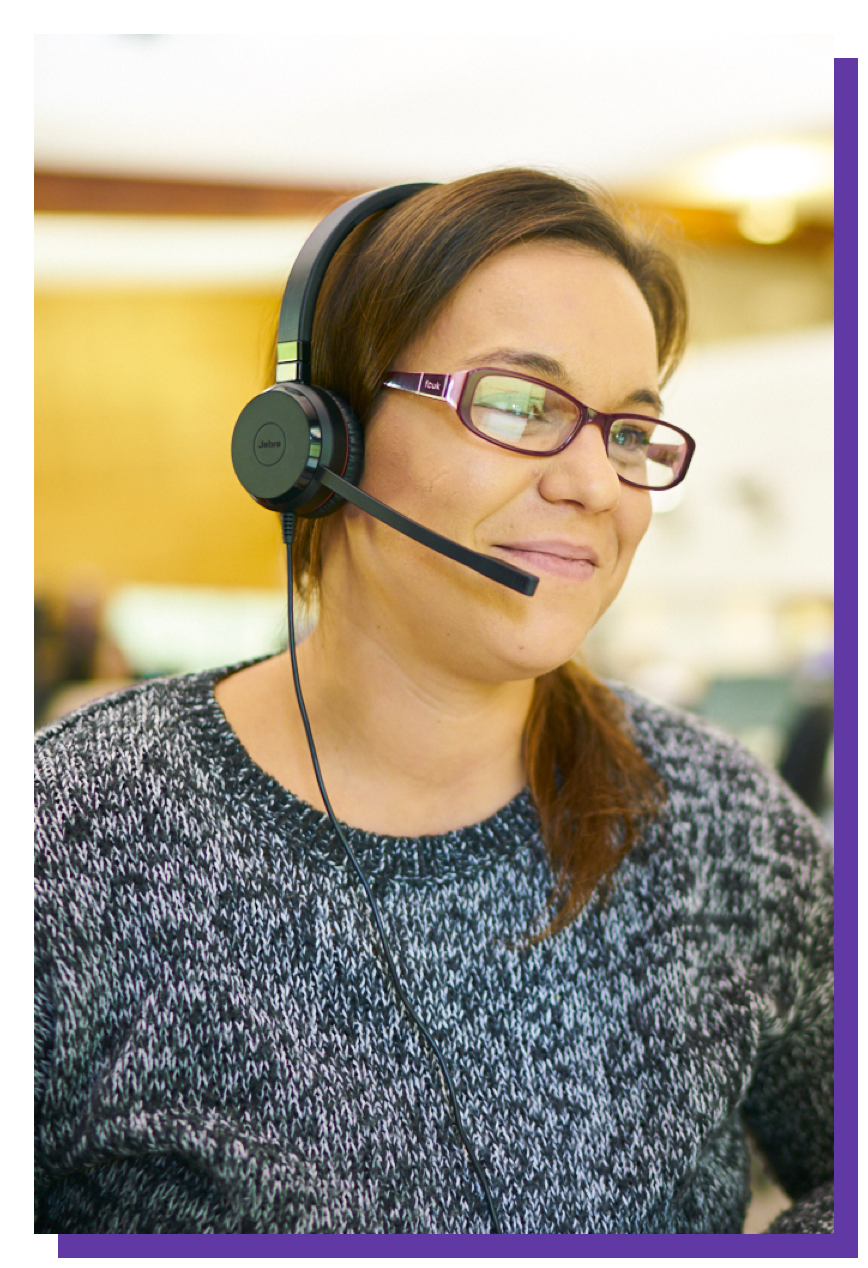
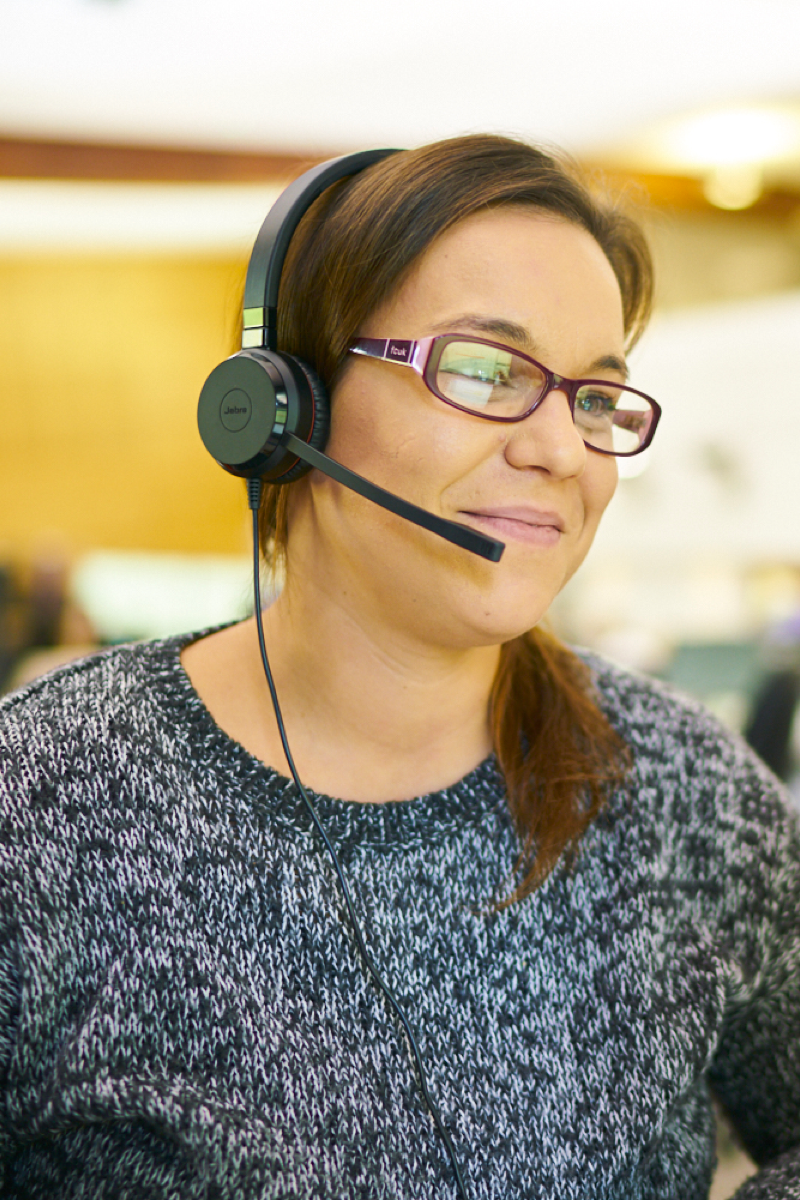
Working on a very tricky layout.

diff --git a/src/components/content-block/_content-block.scss b/src/components/content-block/_content-block.scss
@@ -1,5 +1,4 @@
 .content-block {
-  align-items: center;
   display: grid;
   grid-gap: $spacing-10;
   grid-template-columns: repeat(2, 1fr);
@@ -11,6 +10,21 @@
   &__list-item {
     &:not(:last-child) {
       margin-bottom: $spacing-8;
+    }
+  }
+
+  &__media {
+    position: relative;
+  }
+
+  &__image {
+    position: absolute;
+
+    &--image-2 {
+      box-shadow: 0px 0px 0px .6rem var(--color-background);
+      right: 0;
+      top: -2rem;
+      width: 70%;
     }
   }
 

diff --git a/src/assets/styles/base/_layout.scss b/src/assets/styles/base/_layout.scss
@@ -75,6 +75,24 @@ main {
   }
 }
 
+// case study styles
+
 .case-study-image {
   margin-bottom: $spacing-10;
+}
+
+.content-group {
+  margin-bottom: $spacing-13;
+  max-width: 60rem;
+}
+
+.hx-details {
+  display: grid;
+  grid-template-columns: 1fr 2fr;
+  margin-top: -6rem;
+
+  &__tags {
+    align-self: end;
+    justify-self: end;
+  }
 }
